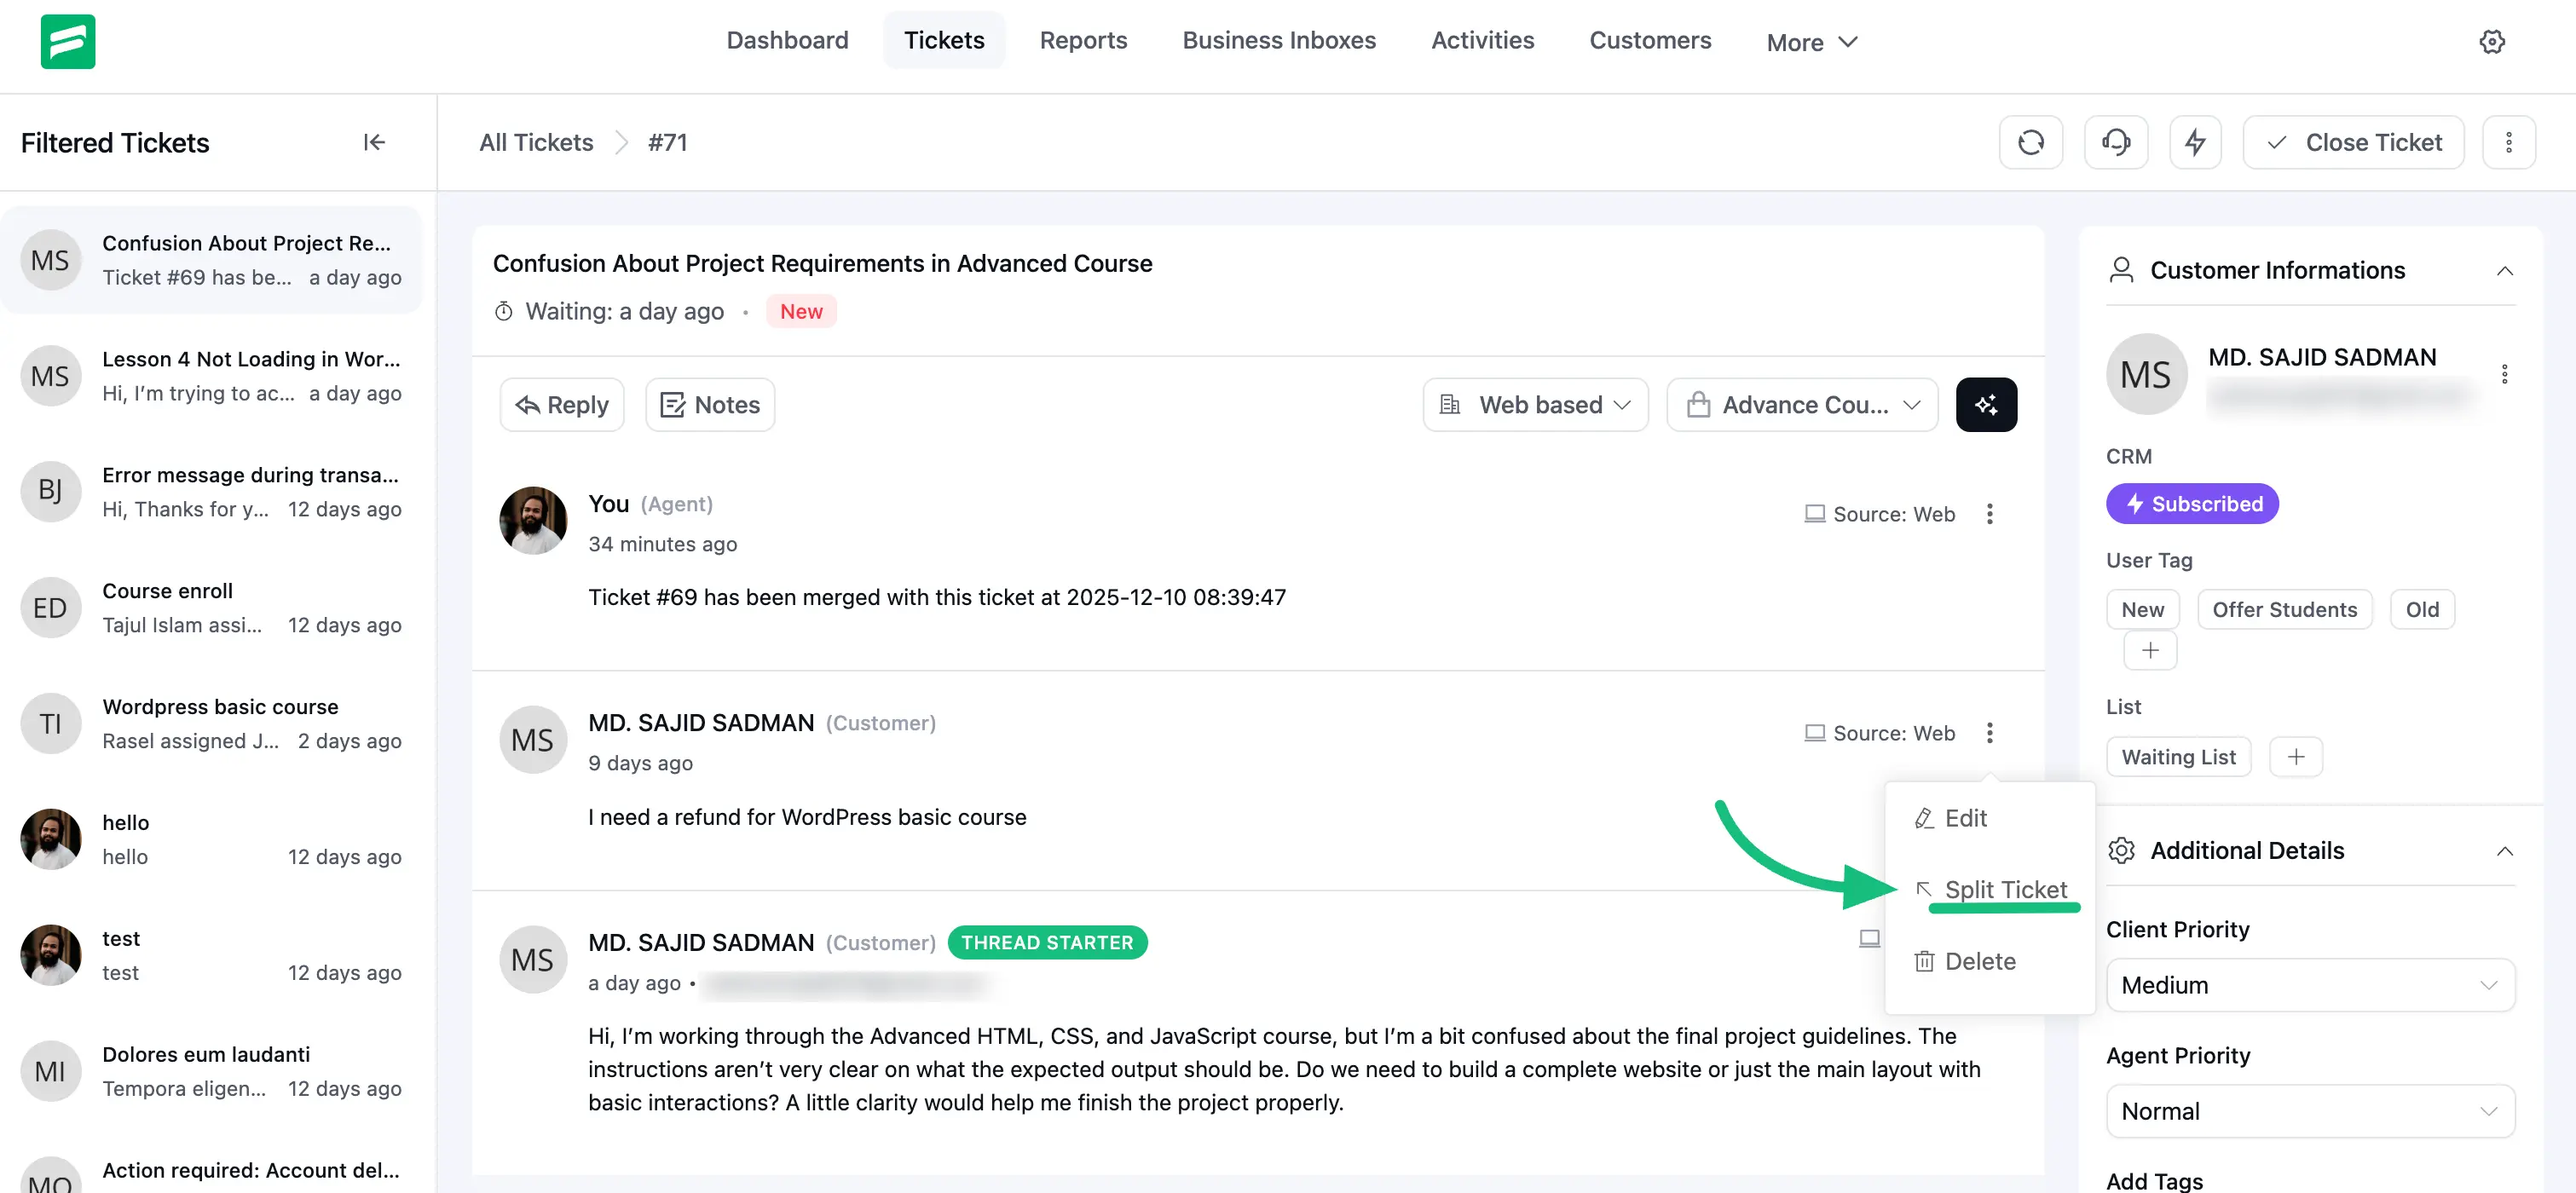
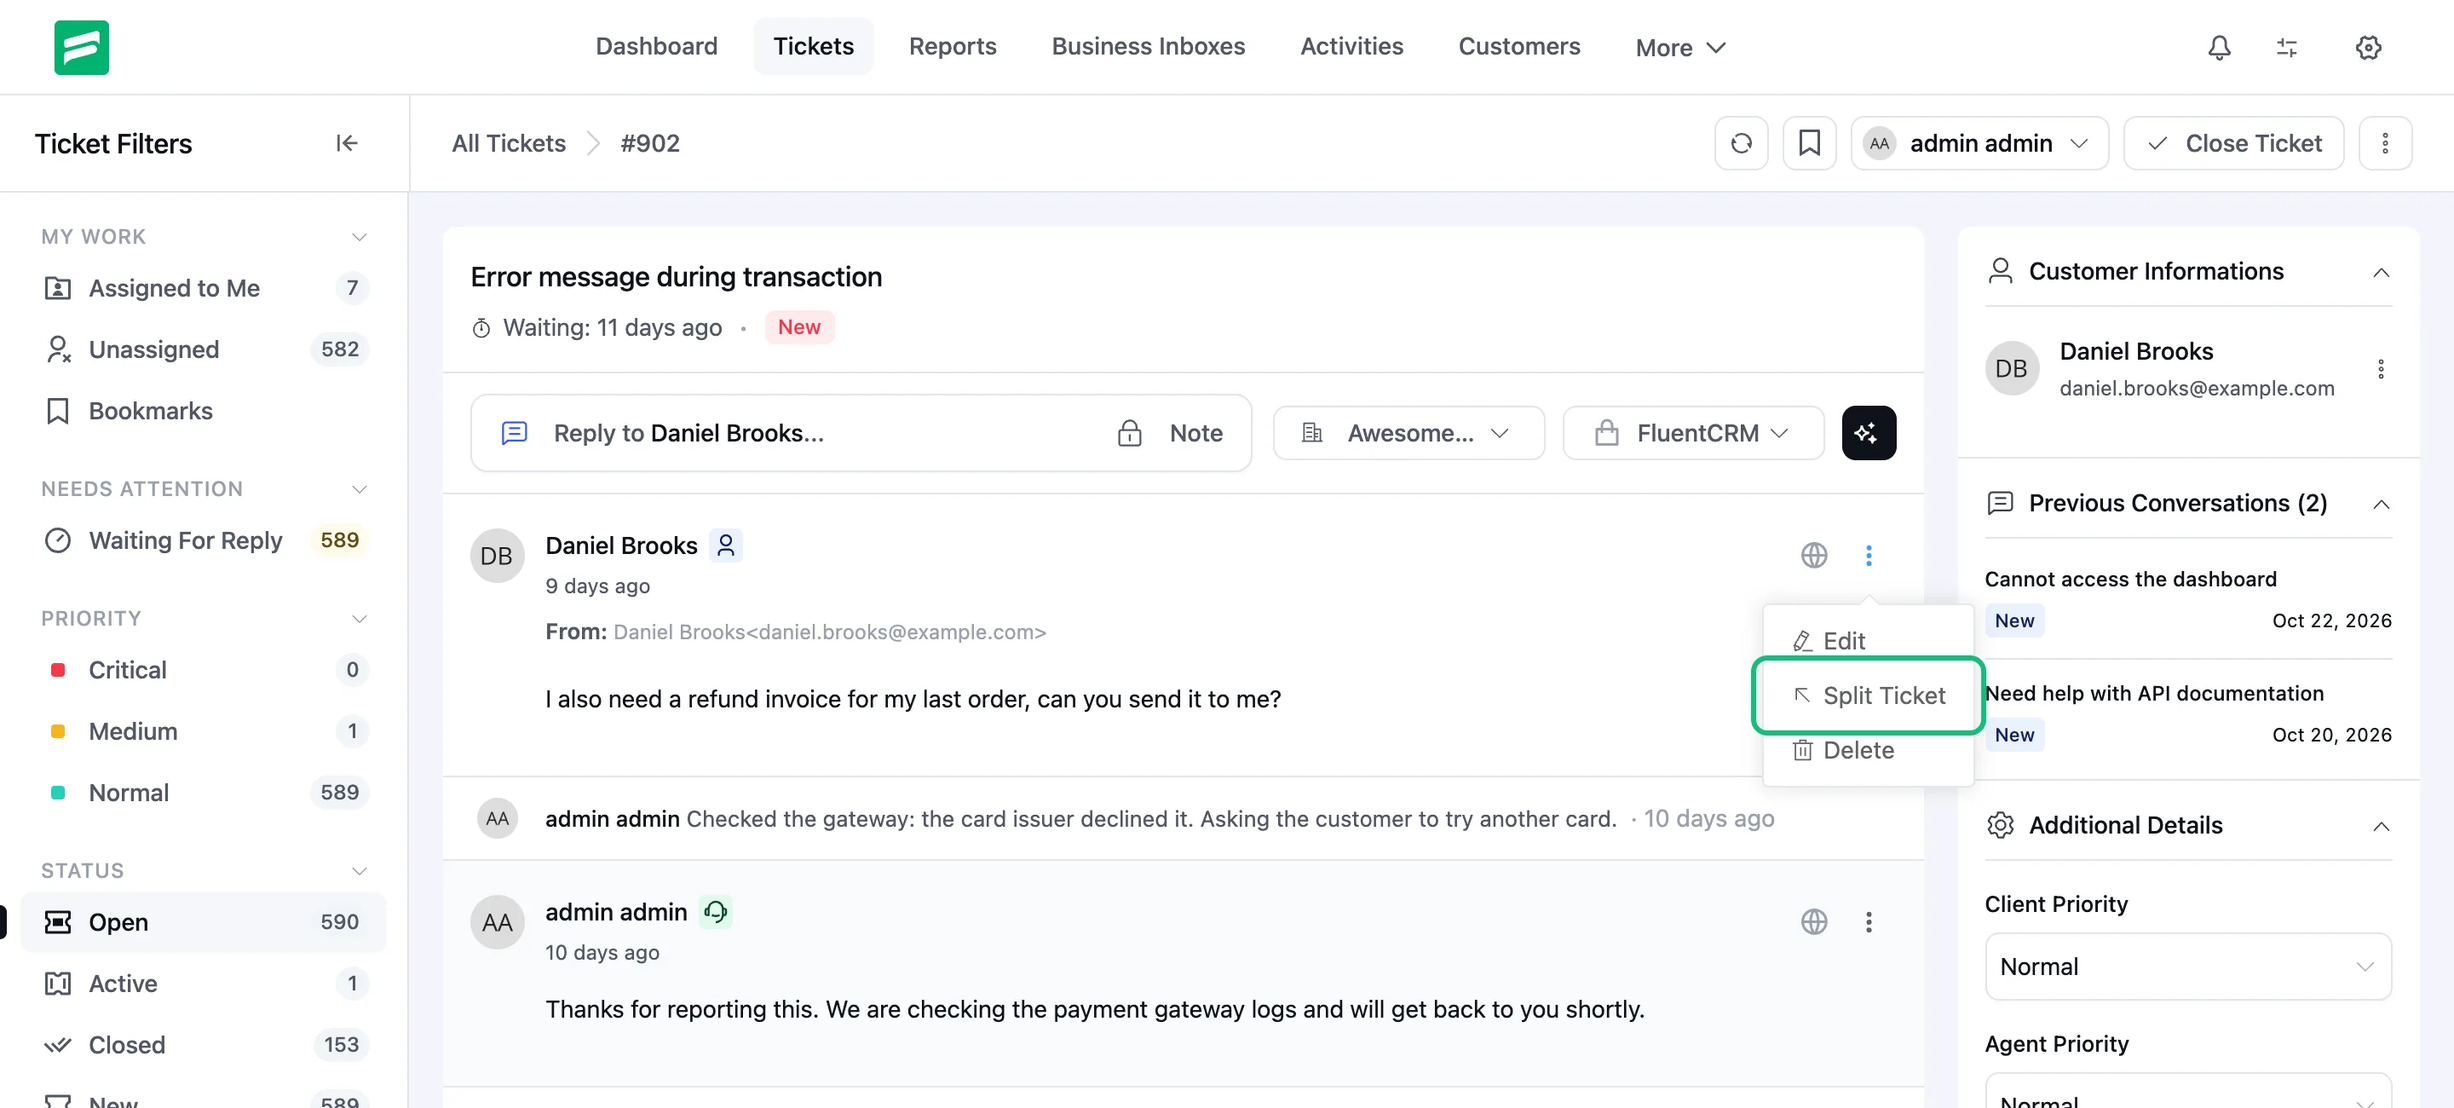
Clarify split-ticket instructions and screenshots
Update the guide to specify splitting a customer reply and refresh screenshots with clearer alt text.

diff --git a/docs/ticket-management/split-reply-in-new-tickets.md b/docs/ticket-management/split-reply-in-new-tickets.md
@@ -8,18 +8,18 @@ First, go to your **Fluent Support** and click on **Tickets**.
 
 Now go to your desired ticket section from **Assigned to Me**, **Unassigned**, **Bookmarks**, or a status view such as **Open** or **All**.
 
-Open the specific ticket you want to split and hit the **Three dot button** on the right side of the ticket.  
+Open the specific ticket you want to split and hit the **Three dot button** on the right side of the customer reply you want to move into a new ticket.  
 
 Now, click on the **Split Ticket** and a pop-up will appear.
 
-![Split ticket option](/images/ticket-management/productivity-tools/split-reply-in-new-tickets/split-ticket-1.webp)
+![The three-dot menu of a customer reply with the Split Ticket option highlighted](/images/ticket-management/productivity-tools/split-reply-in-new-tickets/split-ticket-1.webp)
 
 The popup will display all the options for splitting tickets e.g., **Ticket** **Title** , **Ticket** **Content** , **Ticket** **Product** , etc. And, once you are done, don’t forget to click the **Split Ticket** button.
 
-![Split Ticket popup page](/images/ticket-management/productivity-tools/split-reply-in-new-tickets/split-ticket-2.webp)
+![The Split Ticket popup with the ticket title, content, priority, product and mailbox fields](/images/ticket-management/productivity-tools/split-reply-in-new-tickets/split-ticket-2.webp)
 
 You can see the **split tickets appeared separately** on both the customer & support ends.
 
-![Tickets split separately ](/images/ticket-management/productivity-tools/split-reply-in-new-tickets/split-ticket-3.webp)
+![The original ticket showing a message that the conversation has been split as a new ticket](/images/ticket-management/productivity-tools/split-reply-in-new-tickets/split-ticket-3.webp)
 
 
